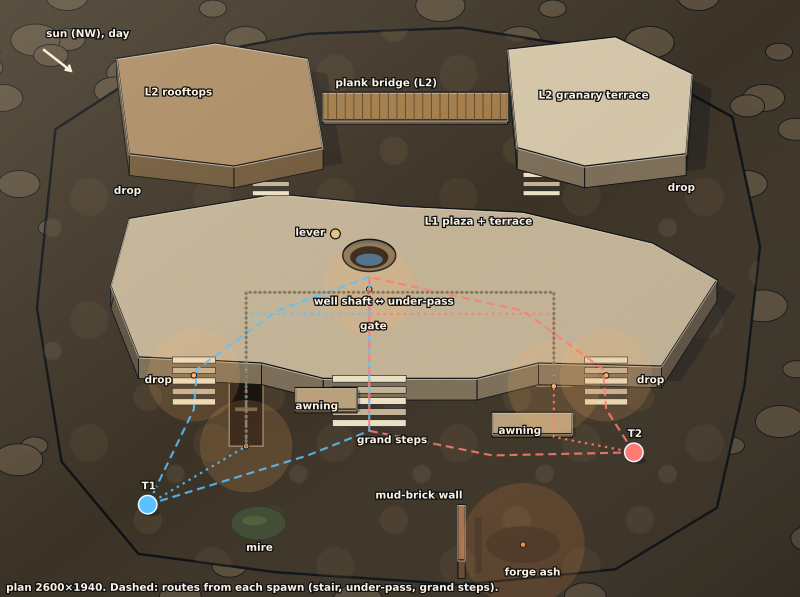
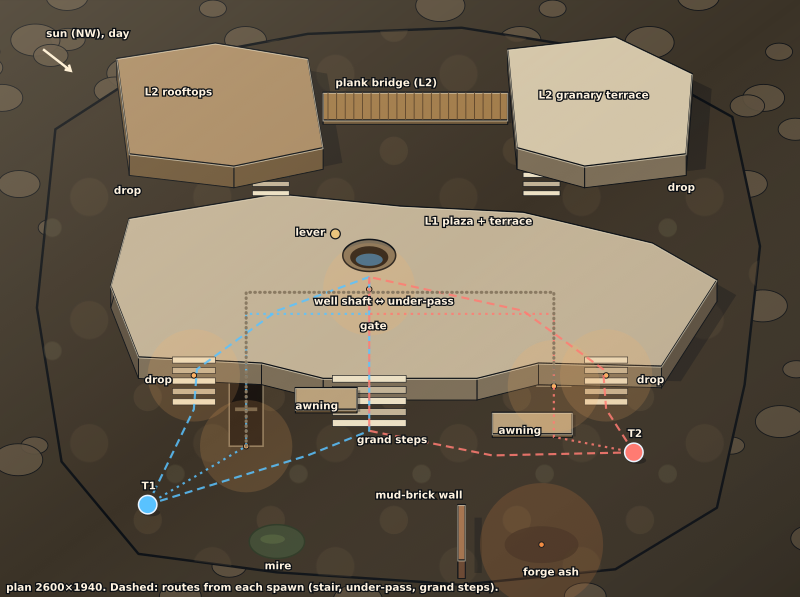
#3276: Sandstone Steps: zones moved so the doc's clearances hold (mire 148 u, forge ash 128 u from the wall)

Changed region(s): [[0.5625, 0.8141, 0.75, 1.0], [0.3125, 0.8442, 0.375, 0.9648]]

diff --git a/docs/art/3072-sandstone-steps.md b/docs/art/3072-sandstone-steps.md
@@ -26,8 +26,8 @@ the place (a terraced desert town on a hill) is kept.
 - **Elements:** a brass **lever** on the plaza at (1090,830) works the **gate** in the
   under-pass at (1200,1020) (it stands at the shaft foot: shut, the under-pass is a dead end for both teams alike, so the stair (6.2 / 6.3 s) and the grand steps (7.0 / 7.6 s) are the two routes; open, the under-pass links both lanes to the shaft); a **mud-brick breakable
   wall** across the south alley at x=1500, where a straight L0 walk between spawns would run;
-  zones `mire` (west cistern seep, at (840,1700)) and `scorched` (east forge ash, at (1760,1700)),
-  at different depths (mire (840,1700), forge ash moved south to (1700,1770)), 120 u clear of the breakable wall, on the south edge of the street: off all three routes and well clear of both spawns
+  zones `mire` (west cistern seep, at (900,1760)) and `scorched` (east forge ash, at (1760,1770)),
+  at different depths (mire (900,1760), forge ash (1760,1770), both further south than the street lane), 120 u clear of the breakable wall, on the south edge of the street: off all three routes and well clear of both spawns
   (≥ 130 u from any route, ≥ 235 u from a spawn); a smoke vent is the forge's atmosphere.
 - **Light:** the **Day** row (visual-style §2): sun from the NW, 50°, `#fff1d6` 0.55, ambient
   `#b0bcd4` 0.45; hot reads from the sand, not from dimming. Local lights: a torch (`#ffb060`,
